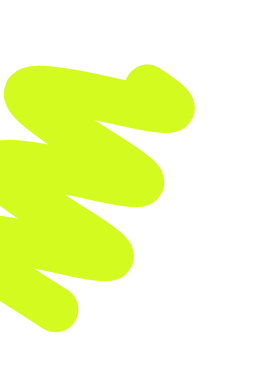
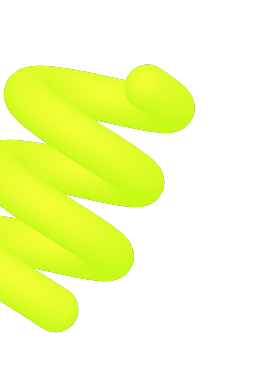
landing page complete

diff --git a/app/page.tsx b/app/page.tsx
@@ -420,6 +420,170 @@ export default function Home() {
         </div>
       </div>
 
+      {/* Testimonials Section */}
+      <div className="relative w-full bg-[#FAFAFA] py-28 flex flex-col items-center overflow-hidden z-10 min-h-[784px] justify-center border-t border-gray-100">
+        {/* Background Gradients */}
+        <div className="absolute inset-0 max-w-[1440px] w-full mx-auto pointer-events-none z-0">
+          {/* Ellipse 11 (Top Right Green) */}
+          <div
+            className="absolute rounded-full opacity-70"
+            style={{
+              width: '1137px',
+              height: '1137px',
+              top: '-241px',
+              left: '842px',
+              background: 'radial-gradient(50% 50% at 50% 50%, #CBFC01 0%, rgba(203, 252, 1, 0.23) 45%, rgba(203, 252, 1, 0.06) 75%, rgba(203, 252, 1, 0) 100%)'
+            }}
+          ></div>
+          
+          {/* Ellipse 12 (Middle Green) */}
+          <div
+            className="absolute rounded-full opacity-70"
+            style={{
+              width: '672px',
+              height: '672px',
+              top: '-138px',
+              left: '395px',
+              background: 'radial-gradient(50% 50% at 50% 50%, #CBFC01 0%, rgba(203, 252, 1, 0.23) 45%, rgba(203, 252, 1, 0.06) 75%, rgba(203, 252, 1, 0) 100%)'
+            }}
+          ></div>
+
+          {/* Ellipse 8 (Left Blue) */}
+          <div
+            className="absolute rounded-full opacity-70"
+            style={{
+              width: '1137px',
+              height: '1137px',
+              top: '149px',
+              left: '-442px',
+              background: 'radial-gradient(50% 50% at 50% 50%, #003BE2 0%, rgba(0, 59, 226, 0.23) 45%, rgba(0, 59, 226, 0.06) 75%, rgba(0, 59, 226, 0) 100%)'
+            }}
+          ></div>
+        </div>
+
+        {/* Content */}
+        <div className="relative z-10 max-w-[1250px] w-full px-6 flex flex-col gap-14 mt-4">
+          
+          {/* Header Row */}
+          <div className="flex flex-col lg:flex-row justify-between items-start lg:items-center gap-8 w-full">
+            <h2 className="font-poppins font-semibold text-[44px] text-[#1D2125] leading-[1.2] tracking-[-0.01em] max-w-[577px]">
+              Discover What Our Community Is Saying
+            </h2>
+            <p className="font-sans font-normal text-[18px] text-[#5C6574] leading-[1.6] max-w-[580px]">
+              At ByteSpace, our vibrant community of learners and creators is at the heart of what we do. Hear directly from those who have experienced the transformative journey of learning and creating on our platform. Explore testimonials that reflect the diverse perspectives of enthusiastic learners and accomplished creators.
+            </p>
+          </div>
+
+          {/* Testimonial Cards */}
+          <div className="grid grid-cols-1 md:grid-cols-3 gap-8 w-full mt-4">
+            {/* Card 1 */}
+            <div className="bg-white rounded-[24px] p-8 shadow-[0_8px_30px_rgba(0,0,0,0.04)] flex flex-col items-start h-full hover:-translate-y-1 transition-transform duration-300 border border-gray-100 cursor-pointer">
+              <img src="/images/Sarah M..png" alt="Sarah M." className="w-16 h-16 rounded-full object-cover mb-5 border-[3px] border-white shadow-sm" />
+              <h4 className="font-bold text-[#1D2125] text-[18px]">Sarah M.</h4>
+              <span className="text-[#003BE2] text-[14.5px] font-medium mb-5">Enthusiastic Learner</span>
+              <p className="font-sans font-normal text-[#5C6574] text-[18px] leading-[1.6]">
+                "ByteSpace has transformed my approach to learning. The diverse range of courses and the quality of content provided by creators have exceeded my expectations. The platform truly fosters a sense of community and lifelong learning."
+              </p>
+            </div>
+
+            {/* Card 2 */}
+            <div className="bg-white rounded-[24px] p-8 shadow-[0_8px_30px_rgba(0,0,0,0.04)] flex flex-col items-start h-full hover:-translate-y-1 transition-transform duration-300 border border-gray-100 cursor-pointer">
+              <img src="/images/James L..png" alt="James L." className="w-16 h-16 rounded-full object-cover mb-5 border-[3px] border-white shadow-sm" />
+              <h4 className="font-bold text-[#1D2125] text-[18px]">James L.</h4>
+              <span className="text-[#003BE2] text-[14.5px] font-medium mb-5">Lifelong Learner</span>
+              <p className="font-sans font-normal text-[#5C6574] text-[18px] leading-[1.6]">
+                "I've tried several online learning platforms, and ByteSpace stands out for its vibrant community and the variety of courses available. The easy navigation and engaging content make it a go-to platform for continuous skill development."
+              </p>
+            </div>
+
+            {/* Card 3 */}
+            <div className="bg-white rounded-[24px] p-8 shadow-[0_8px_30px_rgba(0,0,0,0.04)] flex flex-col items-start h-full hover:-translate-y-1 transition-transform duration-300 border border-gray-100 cursor-pointer">
+              <img src="/images/Alex B..png" alt="Alex B." className="w-16 h-16 rounded-full object-cover mb-5 border-[3px] border-white shadow-sm" />
+              <h4 className="font-bold text-[#1D2125] text-[18px]">Alex B.</h4>
+              <span className="text-[#003BE2] text-[14.5px] font-medium mb-5">Inspired Creator</span>
+              <p className="font-sans font-normal text-[#5C6574] text-[18px] leading-[1.6]">
+                "As a creator, ByteSpace has been a game-changer for me. The Course Editor is user-friendly, and the support from the community is incredible. It's fulfilling to see my courses making a positive impact on learners globally."
+              </p>
+            </div>
+          </div>
+          
+        </div>
+      </div>
+
+      {/* Footer Section */}
+      <footer className="w-full bg-white pt-24 pb-8 flex flex-col items-center border-t border-gray-100 relative z-20">
+        <div className="max-w-[1250px] w-full px-6 flex flex-col gap-16">
+          
+          {/* Top Row */}
+          <div className="grid grid-cols-1 lg:grid-cols-[2.5fr_1fr_1fr_1fr] gap-12 lg:gap-8">
+            
+            {/* Column 1 - Brand & Newsletter */}
+            <div className="flex flex-col gap-6 pr-0 lg:pr-8">
+              <img src="/images/footer_bytespace.png" alt="ByteSpace Logo" className="h-[28px] w-auto object-contain self-start" />
+              <p className="text-[#5C6574] text-[15px] leading-[1.6]">
+                Stay Up to date with our latest features and releases by joining our newsletter.
+              </p>
+              
+              <div className="flex flex-row items-center gap-3 mt-2">
+                <input 
+                  type="email" 
+                  placeholder="Enter your email" 
+                  className="flex-1 border border-gray-200 rounded-[50px] py-[12px] px-6 text-[#1D2125] text-[15px] outline-none focus:border-[#CED0D3] transition-colors bg-transparent"
+                />
+                <button className="bg-[#CBFC01] hover:bg-[#b5e000] text-[#1D2125] font-semibold text-[15px] py-[12px] px-8 rounded-[50px] transition-colors">
+                  Search
+                </button>
+              </div>
+              
+              <p className="text-[#5C6574] text-[13px] leading-[1.6]">
+                By subscribing, you agree to our Privacy Policy and consent to receive updates from our company.
+              </p>
+            </div>
+
+            {/* Column 2 - Links 1 */}
+            <div className="flex flex-col gap-4 pt-1">
+              <a href="#" className="font-semibold text-[#1D2125] text-[15px] mb-2">Featured Courses</a>
+              <a href="#" className="text-[#5C6574] text-[15px] hover:text-[#003BE2] transition-colors">Featured Categories</a>
+              <a href="#" className="text-[#5C6574] text-[15px] hover:text-[#003BE2] transition-colors">Business</a>
+              <a href="#" className="text-[#5C6574] text-[15px] hover:text-[#003BE2] transition-colors">IT</a>
+              <a href="#" className="text-[#5C6574] text-[15px] hover:text-[#003BE2] transition-colors">Design</a>
+            </div>
+
+            {/* Column 3 - Links 2 */}
+            <div className="flex flex-col gap-4 pt-1">
+              <a href="#" className="font-semibold text-[#1D2125] text-[15px] mb-2">Development</a>
+              <a href="#" className="text-[#5C6574] text-[15px] hover:text-[#003BE2] transition-colors">Marketing</a>
+              <a href="#" className="text-[#5C6574] text-[15px] hover:text-[#003BE2] transition-colors">Photography</a>
+              <a href="#" className="text-[#5C6574] text-[15px] hover:text-[#003BE2] transition-colors">Finance</a>
+              <a href="#" className="text-[#5C6574] text-[15px] hover:text-[#003BE2] transition-colors">Sport</a>
+            </div>
+
+            {/* Column 4 - Links 3 */}
+            <div className="flex flex-col gap-4 pt-1">
+              <a href="#" className="font-semibold text-[#1D2125] text-[15px] mb-2">Become a Creator</a>
+              <a href="#" className="text-[#5C6574] text-[15px] hover:text-[#003BE2] transition-colors">Affiliate Program</a>
+              <a href="#" className="text-[#5C6574] text-[15px] hover:text-[#003BE2] transition-colors">Contact</a>
+              <a href="#" className="text-[#5C6574] text-[15px] hover:text-[#003BE2] transition-colors">Help</a>
+              <a href="#" className="text-[#5C6574] text-[15px] hover:text-[#003BE2] transition-colors">About</a>
+            </div>
+
+          </div>
+
+          {/* Bottom Row */}
+          <div className="flex flex-col md:flex-row justify-between items-center pt-8 border-t border-gray-200 gap-4">
+            <p className="text-[#5C6574] text-[14px]">
+              © 2023 ByteSpace. All rights reserved.
+            </p>
+            <div className="flex items-center gap-6">
+              <a href="#" className="text-[#5C6574] text-[14px] hover:text-[#003BE2] transition-colors">Privacy Policy</a>
+              <a href="#" className="text-[#5C6574] text-[14px] hover:text-[#003BE2] transition-colors">Terms of Service</a>
+              <a href="#" className="text-[#5C6574] text-[14px] hover:text-[#003BE2] transition-colors">Cookies Settings</a>
+            </div>
+          </div>
+
+        </div>
+      </footer>
+
     </div>
   );
 }
